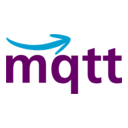
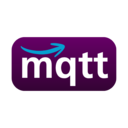
Publish images to GHCR and release from a tag
Adds publish.yml: a v* tag is checked against app/config.yaml, then each arch
is pushed as its own GHCR package and a release is cut from the changelog.
config.yaml gains the versioned image: key, so Supervisor pulls instead of
building and Auto update becomes real.

diff --git a/README.md b/README.md
@@ -1,25 +1,26 @@
-<img src="app/logo.png" alt="" width="250" height="100">
+<img src="app/logo.png" alt="" width="250" height="150">
 
 # Alexa2MQTT
 
 A Home Assistant App (add-on) that connects **Amazon Smart Air Quality Monitors** to Home
 Assistant via **MQTT** — no Homebridge required.
 
-> **Status: Phase 3 complete / pre-alpha.** Installed and running as a Home Assistant app on
-> a real instance since August 12, 2026: Supervisor builds it from the Dockerfile, broker
-> credentials resolve automatically, Amazon sign-in persists across restarts and updates, and
-> all 11 entities update unattended on the poll interval. Images are not published to a
-> registry yet, so **Auto update does nothing** — that is Phase 4. See [`plan.md`](plan.md).
+> **Status: Phase 4 complete / alpha.** Running as a Home Assistant app on a real instance
+> since August 12, 2026: broker credentials resolve automatically, Amazon sign-in persists
+> across restarts and updates, and all 11 entities update unattended on the poll interval.
+> Multi-arch images are published to GHCR, so **Auto update** works. See [`plan.md`](plan.md).
 
 ## Install as a Home Assistant app
 
-1. Put this repository somewhere Home Assistant can reach it (a Git remote, or clone it into
-   `/addons` on the Home Assistant host).
-2. **Settings → Add-ons/Apps → Apps page → ⋮ → Repositories**, add the repository URL, and
-   reload. Skip this step for a clone in `/addons`.
-3. Install **Alexa2MQTT** and start it. Supervisor builds the image locally
-   from [`app/Dockerfile`](app/Dockerfile); the first build takes a few minutes.
-4. Open the Web UI and follow the Amazon login link on port 8098 of the Home Assistant host.
+1. **Settings → Add-ons/Apps → Apps page → ⋮ → Repositories**, add
+   `https://github.com/timblazing/alexa2mqtt`, and reload.
+2. Install **Alexa2MQTT** and start it. Supervisor pulls a prebuilt image for your
+   architecture — amd64 and aarch64 are published.
+3. Open the Web UI and follow the Amazon login link on port 8098 of the Home Assistant host.
+
+To hack on it instead, clone the repository into `/addons` on the Home Assistant host and
+delete the `image:` key from [`app/config.yaml`](app/config.yaml); Supervisor then builds
+locally from [`app/Dockerfile`](app/Dockerfile).
 
 Full app documentation lives in [`app/DOCS.md`](app/DOCS.md).
 
@@ -84,6 +85,21 @@ npm run typecheck
 npm test
 npm run build
 ```
+
+## Releasing
+
+1. Bump `version` in [`app/config.yaml`](app/config.yaml) and add a matching section to
+   [`app/CHANGELOG.md`](app/CHANGELOG.md).
+2. Commit, then tag with the same version prefixed by `v` and push the tag:
+
+   ```sh
+   git tag v0.3.0 && git push origin v0.3.0
+   ```
+
+`.github/workflows/publish.yml` refuses to run if the tag and `config.yaml` disagree. It
+then pushes `ghcr.io/timblazing/alexa2mqtt-amd64` and `…-aarch64` (tagged with the version
+and `latest`) and opens a GitHub release using that changelog section as the notes. Home
+Assistant offers the update once Supervisor refreshes the repository.
 
 ## Attribution
 

diff --git a/plan.md b/plan.md
@@ -199,7 +199,7 @@ slug: alexa2mqtt
 description: Amazon Smart Air Quality Monitor → Home Assistant via MQTT
 url: "https://github.com/timblazing/alexa2mqtt"
 # NOTE: no `image:` key in Phase 3 — Supervisor builds the Dockerfile locally.
-# Phase 4 adds: image: "ghcr.io/timblazing/alexa2mqtt"
+# Phase 4 added: image: "ghcr.io/timblazing/alexa2mqtt-{arch}"
 arch: [amd64, aarch64]
 stage: experimental
 startup: application
@@ -470,9 +470,33 @@ Acceptance — **all observed on the real instance 2026-08-12**:
 - Auth persisted to `/data/auth.json` and survived the 0.1.0 → 0.1.1 update with no re-login.
 - No cookies, tokens, or credentials in the add-on log at default `debug: false`.
 
-**Phase 4 — publish and release.** GHCR multi-arch build (amd64 + aarch64), add the versioned
-`image:` key so Auto-update lights up, `ci.yml` + `publish.yml`, tag-equals-version check,
-auth reset action, README, v0.1.0 tag.
+**Phase 4 — publish and release. Implemented 2026-08-12, released as v0.3.0.** The project
+was renamed to **Alexa2MQTT** first (repo `timblazing/alexa2mqtt`, slug `alexa2mqtt`, MQTT
+topic prefix `alexa2mqtt`), which is why the first published tag is v0.3.0 rather than the
+v0.1.0 originally planned here.
+
+Deliverables:
+
+1. `.github/workflows/publish.yml`, triggered by a `v*` tag: a `verify` job that fails unless
+   the tag equals `app/config.yaml`'s `version`, an arch matrix that pushes
+   `ghcr.io/timblazing/alexa2mqtt-{amd64,aarch64}` tagged with the version and `latest`, and a
+   release job that cuts a GitHub release from that version's `CHANGELOG.md` section.
+2. `image: "ghcr.io/timblazing/alexa2mqtt-{arch}"` in `app/config.yaml`. Supervisor substitutes
+   `{arch}` and appends `:<version>`, so it pulls instead of building and **Auto update**
+   becomes real. Each arch is its own single-arch package — that is the shape Supervisor
+   expects, not one multi-arch manifest.
+3. `timeout-minutes` on both workflows' image jobs. An aarch64 build that misses the layer
+   cache runs `npm ci` under QEMU and otherwise inherits the six-hour default.
+4. README install section rewritten around pulling a published image, plus a Releasing
+   section documenting the bump-changelog-tag loop.
+
+**One manual step per package:** GHCR packages are created **private**. After the first
+publish, set both `alexa2mqtt-amd64` and `alexa2mqtt-aarch64` to public visibility, or
+Supervisor cannot pull them. This is not scriptable from the release workflow.
+
+Still deferred from this phase: the **auth reset action** (a control to drop
+`/data/auth.json` and force a fresh Amazon sign-in without reinstalling). Uninstall/reinstall
+is the workaround.
 
 ---
 

diff --git a/app/CHANGELOG.md b/app/CHANGELOG.md
@@ -1,5 +1,17 @@
 # Changelog
 
+## 0.3.0
+
+First published release. Images now come from GitHub Container Registry instead
+of being built by Supervisor.
+
+- Adds the versioned `image:` key, so **Auto update** works. Installing no longer
+  waits several minutes for a local build.
+- Publishes `ghcr.io/timblazing/alexa2mqtt-amd64` and
+  `ghcr.io/timblazing/alexa2mqtt-aarch64` from a `v*` tag, after checking that the
+  tag matches the version in `config.yaml`.
+- New app icon and logo.
+
 ## 0.2.0
 
 Renamed from *Amazon Air Quality to MQTT* to **Alexa2MQTT**. Both identifiers
